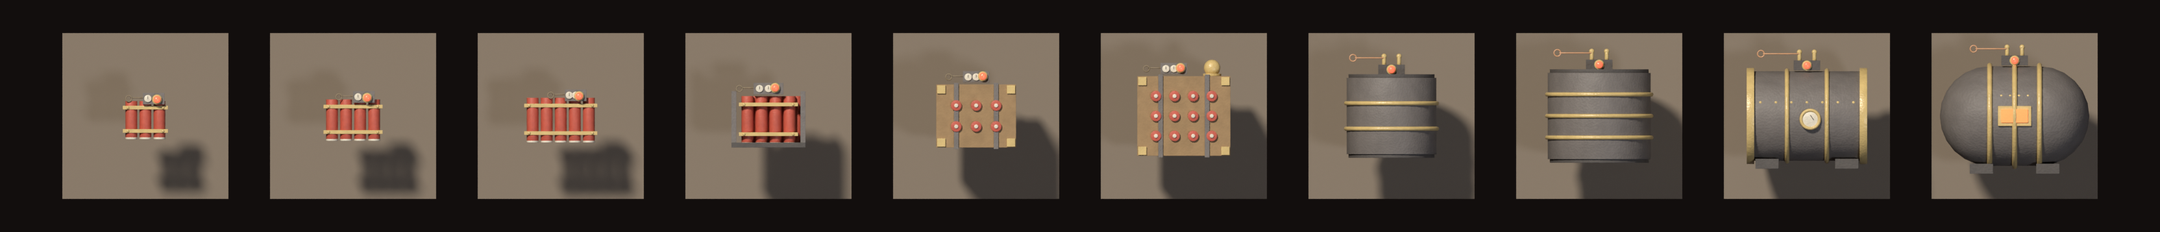
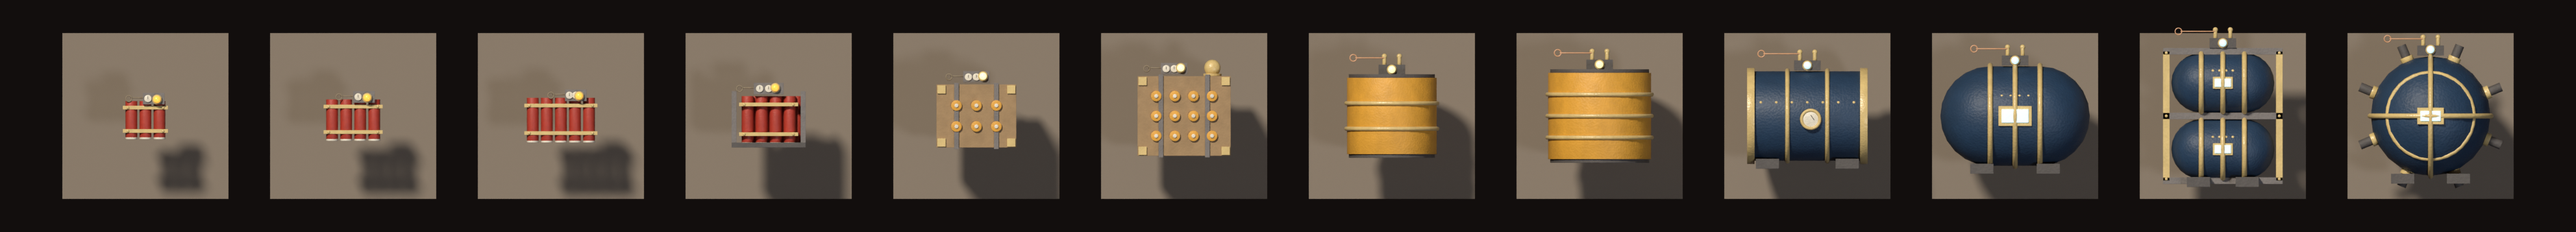
Render the typed dynamite art for review and describe the look rows, the typed rack and the marks layer (ticket 866)
The review renders show the three-bay rack with every pip lit, the twelve planted sizes as a
ladder in their type colours (and in grey, where the three types still tell apart), and the five
crater decals tinted as the build tints them. The art-pipeline section, the dynamite README and
the features entry describe what the slice draws now and where the look rows live. Checked by eye
on the renders and the baked atlases; the live MCP Blender was not used.

diff --git a/docs/art/dynamite/render_dynamite.py b/docs/art/dynamite/render_dynamite.py
@@ -1,7 +1,8 @@
 """
-Review renders of the dynamite sizes (#145, for the #153 look and the #143 ladder): the rack with
-its ten stick models and the wire reel, front and three-quarter, and the ten planted props as a
-ladder on their tiles, front and three-quarter.
+Review renders of the dynamite art (#145, for the #153 look and the #143 ladder; D7 ticket 866 for
+the 12 typed sizes): the rack with its three type bays, stock pips, reel, plunger and nozzle, front
+and three-quarter; the twelve planted props as a ladder on their tiles, front and three-quarter;
+and the five crater decals in a row.
 
     blender -b --factory-startup --python-exit-code 1 -P docs/art/dynamite/render_dynamite.py
     python3 docs/art/dynamite/sheet_dynamite.py
@@ -27,7 +28,9 @@ HERE = os.path.dirname(os.path.abspath(__file__))
 REPO_ROOT = os.path.abspath(os.path.join(HERE, '..', '..', '..'))
 RACK_ID = 'vehicle-dynamite-rack'
 PROP_ID = 'prop-dynamite-charge'
-SIZE_COUNT = 10
+CRATER_ID = 'prop-blast-crater'
+SIZE_COUNT = 12
+DECAL_IDS = ('crater-1', 'crater-2', 'crater-3', 'crater-cased-rim', 'crater-cased-trim')
 LADDER_PITCH_M = 1.25
 RACK_PX_PER_M = 768
 LADDER_PX_PER_M = 256
@@ -43,6 +46,8 @@ def main():
     render_rack()
     stage_ladder()
     render_ladder()
+    stage_decals()
+    render_decals()
 
 
 # --- scenes --------------------------------------------------------------------------------------
@@ -57,7 +62,7 @@ def open_source(asset_id):
 
 
 def stage_ladder():
-    """The ten planted sizes side by side, each on its own tile, size 1 on the left."""
+    """The twelve planted sizes side by side, each on its own tile, size 1 on the left."""
     bpy.ops.wm.read_factory_settings(use_empty=True)
     for obj in append_parts_of(PROP_ID):
         obj.location.x += ladder_x(size_of(obj.name))
@@ -68,6 +73,36 @@ def stage_ladder():
 
 def ladder_x(size):
     return (size - 1 - (SIZE_COUNT - 1) / 2) * LADDER_PITCH_M
+
+
+def stage_decals():
+    """The five crater decals in a row on band rock, each tinted as the build would: soot for the
+    types, a brass plate and its cement seam for the cased rim and trim."""
+    bpy.ops.wm.read_factory_settings(use_empty=True)
+    tints = {'crater-1': (0.16, 0.10, 0.07), 'crater-2': (0.12, 0.10, 0.16), 'crater-3': (0.06, 0.10, 0.14),
+             'crater-cased-rim': (0.86, 0.70, 0.35), 'crater-cased-trim': (0.24, 0.17, 0.08)}
+    for obj in append_parts_of(CRATER_ID):
+        obj.location.x += decal_x(obj.name)
+        tint_decal(obj, tints[obj.name])
+    for part_id in DECAL_IDS:
+        add_tile(decal_x(part_id), size=1.4)
+    stage_lights_and_world()
+
+
+def decal_x(part_id):
+    return (DECAL_IDS.index(part_id) - (len(DECAL_IDS) - 1) / 2) * 1.6
+
+
+def tint_decal(obj, tint):
+    """Multiplies each material's base colour by the tint, as the decal shader does at run time."""
+    for slot in obj.material_slots:
+        material = slot.material.copy()
+        slot.material = material
+        shader = next(node for node in material.node_tree.nodes if node.type == 'BSDF_PRINCIPLED')
+        mix = next((node for node in material.node_tree.nodes if node.type == 'MIX' and node.data_type == 'RGBA'), None)
+        for socket in ([mix.inputs['A'], mix.inputs['B']] if mix is not None else [shader.inputs['Base Color']]):
+            r, g, b, a = socket.default_value
+            socket.default_value = (r * tint[0] * 1.6, g * tint[1] * 1.6, b * tint[2] * 1.6, a)
 
 
 def size_of(part_name):
@@ -83,10 +118,10 @@ def append_parts_of(asset_id):
     return parts
 
 
-def add_tile(x):
+def add_tile(x, size=1.0):
     bpy.ops.mesh.primitive_cube_add(size=1.0, location=(x, 0.6, 0.0))
     tile = bpy.context.view_layer.objects.active
-    tile.scale = (1.0, 0.2, 1.0)
+    tile.scale = (size, 0.2, size)
     tile.data.materials.append(tile_material())
 
 
@@ -206,7 +241,7 @@ def render_rack():
 
 
 def render_ladder():
-    """The ten sizes on their tiles at 256 px/m, then the same from front-right and above."""
+    """The twelve sizes on their tiles at 256 px/m, then the same from front-right and above."""
     width = SIZE_COUNT * LADDER_PITCH_M + 0.5
     height = 1.4
     frame_orthographic((0.0, 0.0), width, height, LADDER_PX_PER_M)
@@ -214,6 +249,13 @@ def render_ladder():
     eye = (width * 0.3, -width * 1.15, height * 3.5)
     frame_perspective(eye, (0.0, 0.0, 0.0), 40.0, 2400, 720)
     render_to(output_path('planted.three-quarter.raw.png'))
+
+
+def render_decals():
+    """The five decals on their tiles at 256 px/m."""
+    width = len(DECAL_IDS) * 1.6 + 0.4
+    frame_orthographic((0.0, 0.0), width, 1.6, LADDER_PX_PER_M)
+    render_to(output_path('crater.decals.raw.png'))
 
 
 if __name__ == '__main__':

diff --git a/docs/art/dynamite/sheet_dynamite.py b/docs/art/dynamite/sheet_dynamite.py
@@ -1,6 +1,6 @@
 """
-The review sheets cut from render_dynamite.py's renders (#145): each render flattened on the
-review background, the rack and the ladder in grayscale, and the ladder resampled to a 1080p
+The review sheets cut from render_dynamite.py's renders (#145, D7 #866): each render flattened on
+the review background, the rack, the ladder and the decals in grayscale, and the ladder resampled to a 1080p
 screen's 90 px/m at the default 12 m zoom (#39), the size the player sees a planted charge at.
 Needs Pillow; run after the Blender render:
 
@@ -18,7 +18,7 @@ INGAME_PX_PER_M = 90
 
 
 def main():
-    for name in ('rack.front', 'rack.three-quarter', 'planted.ladder', 'planted.three-quarter'):
+    for name in ('rack.front', 'rack.three-quarter', 'planted.ladder', 'planted.three-quarter', 'crater.decals'):
         raw = Image.open(raw_path(name)).convert('RGBA')
         flatten(raw).save(output_path(name + '.png'))
         if not name.endswith('three-quarter'):

diff --git a/docs/art/dynamite/README.md b/docs/art/dynamite/README.md
@@ -1,72 +1,75 @@
-# The dynamite sizes: rack sticks and planted props
+# The dynamite art: typed sizes, the rack and the crater decals
 
 The review renders of
 [Art/VFX: Dynamite sizes and explosion effects (#145)](https://github.com/bjor2/steampunk-miner/issues/145),
 for the ladder locked in
-[Grilling: Dynamite sizes vs the shipped blasting_charges (#153)](https://github.com/bjor2/steampunk-miner/issues/153)
-and the ten sizes of
-[Spec: Dynamite in ~10 sizes (#143)](https://github.com/bjor2/steampunk-miner/issues/143).
-Authored in Blender 4.2.9 on the shared box headlessly (`scripts/art/author_dynamite_sizes.py`
-wrote the first version; the `.blend` files under `art/blender/vehicle-dynamite-rack/` and
-`art/blender/prop-dynamite-charge/` are the sources from now on, Git LFS). The wiring
-([#215](https://github.com/bjor2/steampunk-miner/issues/215)) exports them, registers them through
-the art-id registry, puts them in place of the kernel's old `vehicle-blasting-charges` and
-`prop-blasting-charge`, and shows each size as it unlocks (`docs/art-pipeline.md`, "Dynamite
-sizes").
+[Grilling: Dynamite sizes vs the shipped blasting_charges (#153)](https://github.com/bjor2/steampunk-miner/issues/153),
+the twelve-row, three-type ladder of
+[Dynamite D1 (#860)](https://github.com/bjor2/steampunk-miner/issues/860) and the typed art of
+[Dynamite D7 (#866)](https://github.com/bjor2/steampunk-miner/issues/866): "each type has its own
+stick colour, fuse sparks and crater decal; a rack socket with a slot per type and stock pips;
+the `remote_detonator` plunger part" (the GD lock of 25 Oct on #647). Authored in Blender 4.2.9
+on the shared box headlessly by `scripts/art/author_dynamite_sizes.py`, which also writes each
+asset's placeholder sidecar; the `.blend` files under `art/blender/` are the sources (Git LFS).
+The `dynamite-visuals` slice registers the ids through the art-id registry and draws them
+(`docs/art-pipeline.md`, "Dynamite sizes").
 
 ## What is here
 
-| Asset                   | Parts                                                                                                                                                                                        |
-| ----------------------- | -------------------------------------------------------------------------------------------------------------------------------------------------------------------------------------------- |
-| `vehicle-dynamite-rack` | `rack-frame`, the five-shelf rack with its arm and the reel's bracket; `stick-1` to `stick-10`, one model per size, two a shelf, size 1 bottom left; `wire-reel`, the detonator's reel (P22) |
-| `prop-dynamite-charge`  | `planted-1` to `planted-10`, every one at the origin with its pivot at its centre like today's charge; `lamp-1` to `lamp-10`, the one glowing piece of each, kept apart so it can blink      |
+| Asset                   | Parts                                                                                                                                                                                                                                                                                        |
+| ----------------------- | -------------------------------------------------------------------------------------------------------------------------------------------------------------------------------------------------------------------------------------------------------------------------------------------- |
+| `vehicle-dynamite-rack` | `rack-frame`, three bays over eight pip sockets each; `slot-1` to `slot-3`, one type's bundle a bay (the strapped sticks, a keg, the bomb); `pip-<type>-1` to `pip-<type>-8`, the lit stock pips; `wire-reel` and `plunger`, the detonator's (P22); `casing-nozzle`, the Blast Casing node's |
+| `prop-dynamite-charge`  | `planted-1` to `planted-12`, every one at the origin with its pivot at its centre; `lamp-1` to `lamp-12`, the one glowing piece of each, kept apart so it can blink                                                                                                                          |
+| `prop-blast-crater`     | `crater-1`, `crater-2`, `crater-3`, one neutral decal a type; `crater-cased-rim` and `crater-cased-trim`, the lined crater's plates and seam, tinted by the build in the laid grade's plate colour and its lining's trim                                                                     |
 
 The rack is authored in its own frame with the `hull.rear` attach point at the origin (K5: gear
-is drawn at its point's `atM`), where today's rack already hangs, with the arm towards the
-chassis. The wire reel is part of the rack asset, on the arm side, so no new attach point and no
-Schedule C row (#153 amendment 2).
+is drawn at its point's `atM`), the arm towards the chassis. The reel, the plunger and the nozzle
+are parts of the rack asset, so no new attach point and no Schedule C row (#153 amendment 2).
 
-The ladder escalates by family as well as by scale, so a size reads at a glance and in grayscale:
+The type colours are the look rows' (`src/features/dynamite-visuals/dynamiteLooks.json`): the
+author script reads them, so the art and the rows never drift. Every size of a type wears its
+`stick` colour on its charge bodies and its `spark` colour in the lamp glass:
 
-| Sizes | Family                                                                                                             | Planted extent (w × h, m) |
-| ----- | ------------------------------------------------------------------------------------------------------------------ | ------------------------- |
-| 1–3   | three, four and five red sticks in brass straps with a clockwork timer, fuse cord and the fuse lamp                | 0.27×0.28 to 0.44×0.32    |
-| 4     | two rows of four sticks in an iron cradle, the timer box on top                                                    | 0.45×0.39                 |
-| 5, 6  | wooden crates with brass corners, the stick ends showing on the face (3×2, then 4×3 with a bell dome by the timer) | 0.48×0.47, 0.56×0.59      |
-| 7, 8  | iron powder kegs in brass hoops with galvanic terminals and the lead wire (remote, #153 section 2)                 | 0.57×0.63, 0.65×0.69      |
-| 9     | a riveted iron drum on chocks with brass end caps, a pressure gauge and the terminals                              | 0.73×0.72                 |
-| 10    | the bomb: a drum between two domes in three brass bands, a glowing charge window, twin terminals                   | 0.90×0.78                 |
+| Type | Sizes | Name            | Stick     | Families                                                                                                       |
+| ---- | ----- | --------------- | --------- | -------------------------------------------------------------------------------------------------------------- |
+| 1    | 1–4   | Breaking charge | `#b83a2a` | three, four and five red sticks in brass straps with a clockwork timer; two rows of four in an iron cradle (4) |
+| 2    | 5–8   | Deep charge     | `#e8a93a` | wooden crates with the stick ends showing (5, 6); painted powder kegs in brass hoops with terminals (7, 8)     |
+| 3    | 9–12  | Biggest charge  | `#24405e` | a riveted drum on chocks (9), the bomb (10), a caisson of two bombs in a brass yoke (11), the spiked mine (12) |
 
-The rack's sticks are the same models scaled to a slot that grows with the size (`RACK_SLOTS` in
-the author script), 0.05 × 0.045 m for size 1 to 0.125 × 0.108 m for size 10, so the rack reads
-as the ladder. The lamp is the only emissive piece; the size-10 charge window glows faintly too.
+The three sticks stand at least 0.1 apart in luma (ticket 830's colour-blind rule), so the types
+tell apart in grey. Every planted size stays inside its 1 m tile (0.27 × 0.28 m at size 1 to
+0.87 × 0.93 m at size 12, measured on the evaluated meshes).
+
+The crater decals are 1 m discs facing the camera, authored in neutral greys the decal shader
+multiplies by a tint: the type's soot for a bare crater, the grade's plate colour and the lining's
+trim colour (`casingGradeLooks.json`) once Blast Casing lines it. The crater edge sits at 0.84 of
+the disc's radius (`DECAL_RIM_SHARE`), so a decal scaled to the ground radius keeps its rim just
+outside the clearing.
 
 ## Files
 
-| File                                            | What it is                                                                                      |
-| ----------------------------------------------- | ----------------------------------------------------------------------------------------------- |
-| `rack.front.png`, `rack.front-gray.png`         | the rack with all ten sizes and the reel in the game's front view at 768 px/m, and in grayscale |
-| `rack.three-quarter.png`                        | the same from front-right and above, to show the relief the flat view only hints at             |
-| `planted.ladder.png`, `planted.ladder-gray.png` | the ten planted sizes on their tiles at 256 px/m, colour and grayscale                          |
-| `planted.ingame.png`, `planted.ingame-gray.png` | the ladder at 90 px/m, about what a 1080p screen shows at the default 12 m zoom (#39)           |
-| `planted.three-quarter.png`                     | the ladder from front-right and above                                                           |
-| `render_dynamite.py`, `sheet_dynamite.py`       | the render (Blender) and sheet (Pillow) scripts                                                 |
+| File                                            | What it is                                                                                               |
+| ----------------------------------------------- | -------------------------------------------------------------------------------------------------------- |
+| `rack.front.png`, `rack.front-gray.png`         | the rack with all three bays lit, the reel, the plunger and the nozzle at 768 px/m, and in grayscale     |
+| `rack.three-quarter.png`                        | the same from front-right and above, to show the relief the flat view only hints at                      |
+| `planted.ladder.png`, `planted.ladder-gray.png` | the twelve planted sizes on their tiles at 256 px/m, colour and grayscale                                |
+| `planted.ingame.png`, `planted.ingame-gray.png` | the ladder at 90 px/m, about what a 1080p screen shows at the default 12 m zoom (#39)                    |
+| `planted.three-quarter.png`                     | the ladder from front-right and above                                                                    |
+| `crater.decals.png`, `crater.decals-gray.png`   | the five decals on band rock at 256 px/m, tinted as the build tints them (soot, soot, soot, brass, seam) |
+| `render_dynamite.py`, `sheet_dynamite.py`       | the render (Blender) and sheet (Pillow) scripts                                                          |
 
-## Hand checks (7 Oct 2026)
+## Hand checks (25 Oct 2026, D7)
 
-- **The ladder escalates** (`planted.ladder.png`): width and height both grow from size 1 to 10
-  (0.27 × 0.28 m to 0.90 × 0.78 m, measured on the evaluated meshes), and every family step is a
-  new silhouette: a row of sticks, a cradled block, a crate, a keg, a lying drum, the bomb. Every
-  size stays inside its 1 m tile.
-- **The rack reads as the ladder** (`rack.front.png`): five shelves, two sizes a shelf, bottom row
-  first, each miniature bigger than the one before; the kegs and the drum read as kegs and a drum
-  at 1 to 2 cm, and the reel with its crank and the wire running to its socket sits on the arm
-  side where the vehicle's chassis is.
-- **Grayscale at play size** (`planted.ingame-gray.png`, each size about 60 to 90 px wide): the
-  families still tell apart with no colour; sizes 1 to 3 differ by width alone (three, four and
-  five sticks at six pixels each), which is what the HUD size readout and the rack are for.
-- **Pivots** (`rack-frame` at the attach point, every `planted-<n>` at its centre, every lamp at
-  its socket) lie inside their meshes, as the exporter requires; every part is one mesh, nothing
-  is rigged. The remote sizes (7 to 10) carry terminals and a lead instead of a fuse cord.
-- Not looked over live in the MCP Blender: the shared instance was not listening on the box
-  during this session, so the review is the headless renders above.
+- **The ladder escalates** (`planted.ladder.png`): width and height both grow from size 1 to 12,
+  and every family step is a new silhouette: a row of sticks, a cradled block, a crate, a keg, a
+  lying drum, the bomb, the stacked caisson, the spiked mine. Every size stays inside its tile.
+- **The types read as colours and in grey** (`planted.ladder-gray.png`): red, ochre and navy are
+  three luma steps, so sizes 4 and 5, and 8 and 9, tell apart as a type change with no colour.
+- **The rack reads as three bays** (`rack.front.png`): the sticks, a keg and the bomb each in its
+  bay with eight pips under it, the reel and plunger on the arm side where the chassis is, the
+  nozzle on the far side. The pips are 1 cm domes: they read on desktop at the default zoom and
+  are a dot on a 360 px phone, as the pins in `chargeTypeLook.test.ts` say.
+- **The decals** (`crater.decals.png`): a star of cracks, a pit of fissures, a shattered ring, and
+  the plated rim with its seam; the rim's plates tint to brass without losing their rivets.
+- Not looked over live in the MCP Blender: the shared instance was not used during this session,
+  so the review is the headless renders above, plus the baked atlases.

diff --git a/docs/art-pipeline.md b/docs/art-pipeline.md
@@ -369,36 +369,56 @@ replaced them ([#215](https://github.com/bjor2/steampunk-miner/issues/215), belo
 
 ## Dynamite sizes
 
-The art of the ten dynamite sizes ([#145](https://github.com/bjor2/steampunk-miner/issues/145),
+The art of the twelve dynamite sizes ([#145](https://github.com/bjor2/steampunk-miner/issues/145),
 for the design [#153](https://github.com/bjor2/steampunk-miner/issues/153) and the ladder on
-[#143](https://github.com/bjor2/steampunk-miner/issues/143)), owned by the `dynamite-visuals`
-slice, which registers both ids through `r.artAssets` (#214) and draws them
+[#143](https://github.com/bjor2/steampunk-miner/issues/143); the 12-row, three-type ladder of D1
+[#860](https://github.com/bjor2/steampunk-miner/issues/860) and the typed art of D7
+[#866](https://github.com/bjor2/steampunk-miner/issues/866)), owned by the `dynamite-visuals`
+slice, which registers the ids through `r.artAssets` (#214) and draws them
 ([#215](https://github.com/bjor2/steampunk-miner/issues/215)). Their part ids follow the kernel's
-`blastingCharges.sizes`, so a size the economy table doesn't list is never registered, and a new
-rung fails the asset lint until it is modelled.
+`blastingCharges.sizes` (a planted body and lamp per size, a rack bay per type), so a size or type
+the economy table doesn't list is never registered, and a new rung fails the asset lint until it
+is modelled.
 
-| Id                      | Source         | What the build draws                                                                       |
-| ----------------------- | -------------- | ------------------------------------------------------------------------------------------ |
-| `vehicle-dynamite-rack` | Blender, parts | the rack at `hull.rear`: `rack-frame`, `stick-1` to `stick-10` as they open, `wire-reel`   |
-| `prop-dynamite-charge`  | Blender, parts | the planted size: `planted-<n>` at the charge's tile, with `lamp-<n>` blinking on its fuse |
+| Id                      | Source         | What the build draws                                                                                                                                        |
+| ----------------------- | -------------- | ----------------------------------------------------------------------------------------------------------------------------------------------------------- |
+| `vehicle-dynamite-rack` | Blender, parts | the rack at `hull.rear`: `rack-frame`, `slot-<type>` as a type opens, `pip-<type>-<n>` per charge carried, `wire-reel` and `plunger` (P22), `casing-nozzle` |
+| `prop-dynamite-charge`  | Blender, parts | the planted size: `planted-<n>` at the charge's tile, with `lamp-<n>` blinking on its fuse                                                                  |
+| `prop-blast-crater`     | Blender, parts | the crater decals: `crater-<type>` in the type's soot, `crater-cased-rim` and `crater-cased-trim` tinted in the laid casing's plate and trim                |
 
+- The look rows live in `src/features/dynamite-visuals/dynamiteLooks.json` (D7): one row per
+  charge type with its stick colour, spark colour, ring colour, soot tint and crater part, plus
+  the fuse sparks, the Blast Casing row (#862) and the Blast Radius row (#869). The author script
+  reads the type colours from it, so the art and the rows never drift, and the per-upgrade looks
+  check (`rigLookLines.test.ts`, ticket 809) asserts every type has a row.
 - The rack is authored in its own frame with the attach point at the origin, like the other gear
-  (K5), and holds one model per size on five shelves. The slice registers the attach use
-  `dynamite-visuals.rack` (`blasting_charges` on `hull.rear`) and hangs the rack there as a
-  vehicle piece (#235), behind the body's parts. Once the rack is bolted on it shows its frame and
-  a stick for every size open on the planet, so a new size shows the day it opens; the reel shows
-  from the remote detonator's unlock (#153 amendment 2: no new attach point).
-  `steampunkDebug.features['dynamite-visuals'].getRack()` lists the parts it shows.
+  (K5), with three bays, one a type, each over eight pip sockets. The slice registers the attach
+  use `dynamite-visuals.rack` (`blasting_charges` on `hull.rear`) and hangs the rack there as a
+  vehicle piece (#235), behind the body's parts. Once the rack is bolted on it shows its frame, a
+  bay's bundle for every type with a size open on the planet, and one lit pip per charge of the
+  type carried; the reel and plunger from the remote detonator's unlock (#153 amendment 2: no new
+  attach point); the nozzle once the Blast Casing node is owned. The bundles grow with the Blast
+  Radius band about their pivot. `steampunkDebug.features['dynamite-visuals'].getRack()` lists the
+  parts it shows.
 - Every planted size sits at the origin with its pivot at its centre, so the slice's planted layer
   draws the charge's size where the charge is. The lamp is apart from the body so it blinks by
-  showing and hiding, faster in the fuse's last second; a remote charge's never hurries.
-- The blast itself is procedural, the slice's second scene layer: each `BlastFront` slice (K6)
-  throws fire and dust across the ring it uncovered and debris out of it, so the ring rides the
+  showing and hiding, faster in the fuse's last second; a remote charge's never hurries. Every
+  size of a type wears the type's stick colour on its charge bodies and its spark colour in the
+  lamp glass; sizes 11 (a caisson of two bombs) and 12 (a spiked mine) are the biggest.
+- The blast itself is procedural, the slice's front layer: each `BlastFront` slice (K6) throws
+  fire and dust across the ring it uncovered and debris out of it, so the ring rides the
   clearing's edge; each detonation lights the size's flash sprite for two frames while the flash
-  switch is on. Four pooled draw calls (fire and dust points, one instanced debris mesh, the
-  sprite), declared with the planted layer's eight within `SCENE_LAYER_LINE` (#213).
-- `scripts/art/author_dynamite_sizes.py` wrote the first version of both `.blend` files. From
-  then on the `.blend` files are the sources. The review renders are in
+  switch is on. Three pooled draw calls (fire and dust points of 256 each, the sprite), the debris
+  in the kernel spray (ticket 348).
+- The marks layer (D7) draws what a charge leaves and wears in five pooled calls within what the
+  dust pool gave up: the planet's last six craters as decals cut from `prop-blast-crater`, scaled
+  to the ground radius and tinted (the type's soot, or with casing laid the grade's plate colour
+  and the lining's trim from `casingGradeLooks.json`); a ring quad per planted slot whose shader
+  draws the dashed danger ring inside the solid ground ring in the type's colour; and a fuse-spark
+  point pool per type in its spark colour, fed from each burning charge's lamp.
+  `steampunkDebug.features['dynamite-visuals'].getMarks()` reports what it holds and its peak.
+- `scripts/art/author_dynamite_sizes.py` wrote every version of the three `.blend` files and
+  writes each placeholder sidecar from the scene it authored. The review renders are in
   [docs/art/dynamite/](art/dynamite/README.md).
 
 ## Tech gear
